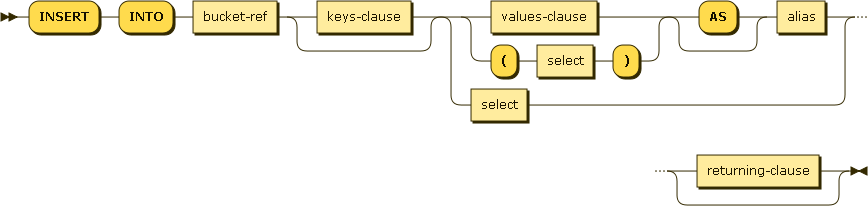
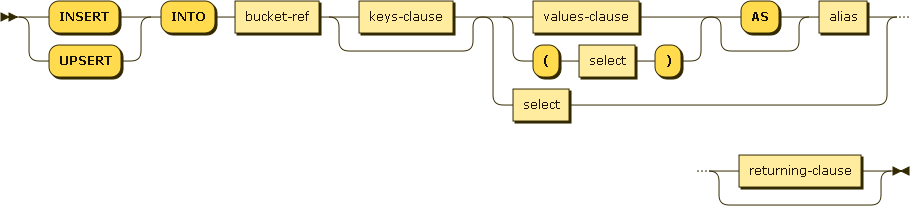
Added UPSERT to INSERT.

diff --git a/docs/n1ql-dml.md b/docs/n1ql-dml.md
@@ -2,8 +2,7 @@
 
 * Status: DRAFT/PROPOSAL
 * Latest: [n1ql-dml](https://github.com/couchbaselabs/query/blob/master/docs/n1ql-dml.md)
-* Modified: 2014-01-21
-* Modified: 2014-02-06
+* Modified: 2014-02-12
 
 ## Introduction
 
@@ -27,7 +26,7 @@ N1QL provides several data modification statements.
 
 ## INSERT
 
-*insert:*
+*insert and upsert:*
 
 ![](diagram/insert.png)
 
@@ -223,6 +222,8 @@ Generator](http://railroad.my28msec.com/) ![](diagram/.png)
       stored separately.
 * 2014-02-06 - Transactions
     * Removed transaction statements for now.
+* 2014-02-12 - Upsert
+    * Added UPSERT option to INSERT
 
 ### Open Issues
 
